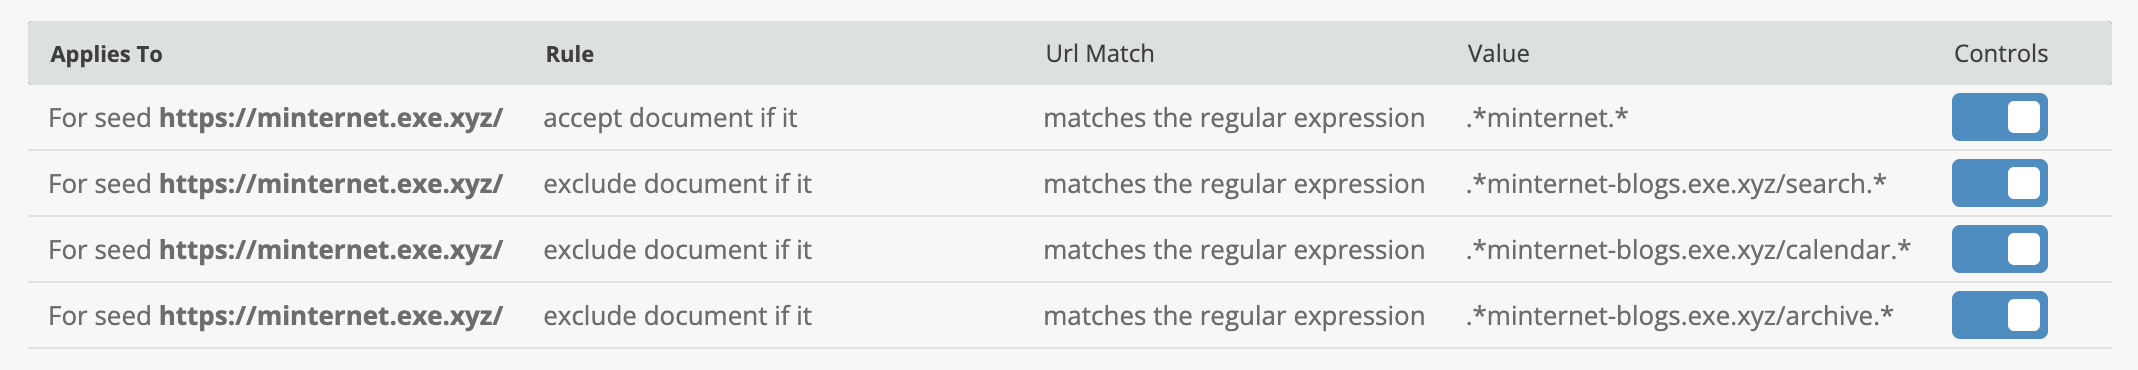
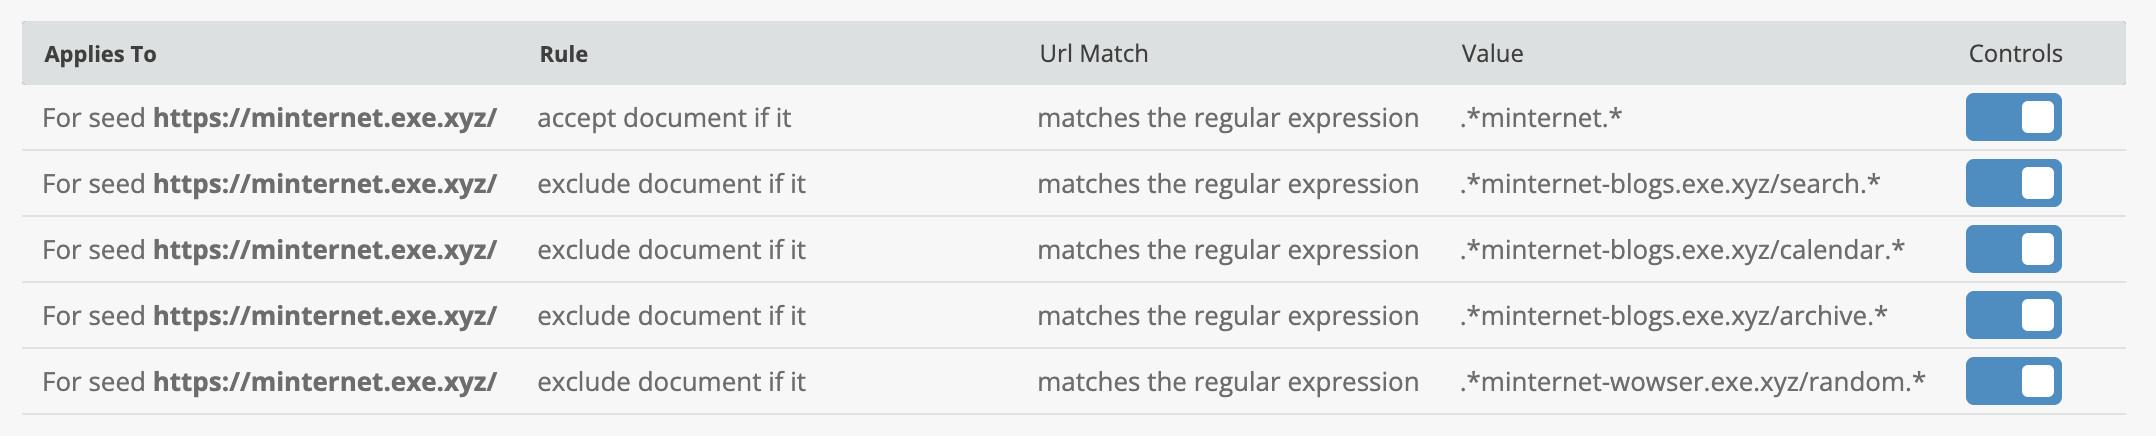
AIT lab through first real crawl starting

diff --git a/labs/archive_it/README.md b/labs/archive_it/README.md
@@ -24,7 +24,6 @@ One of the very first things we'll want to do is make the collection **private**
 
 ![mark_private.png](mark_private.png)
 
-
 ### 2- Add single seed and run first crawl
 
 Next we'll add a single seed and run a test crawl to get a feel for the mechanics of that.
@@ -122,7 +121,6 @@ For some web archiving programs, this may close the loop and be sufficient for t
 6. Discovery and access available via the AIT public interface
 
 For other web archiving programs, we are only scratching the surface of what they may utilize.  AIT is a very full featured web archiving service, much of which we have not yet touched on yet.
-
 
 ### 5- Crawl Traps, QA, and Scoping; oh my!
 
@@ -244,7 +242,7 @@ With this new rule in place, let's re-run a test crawl with all the same setting
 
 ![test-crawl-2.png](test-crawl-2.png)
 
-For analysis purposes, this crawl will work equally well to the one you ran: https://partner.archive-it.org/421/collections/30935/crawl/2656566.
+For analysis purposes, this crawl will work equally well to the one you ran: [https://partner.archive-it.org/421/collections/30935/crawl/2656566](https://partner.archive-it.org/421/collections/30935/crawl/2656566).
 
 Note that now 95 docs; it would appear that our seed scope include rule had an effect!  What kind of URLs are we seeing from this crawl?  We can use the same QA approach as before and look at the plain text URLs that originated from this seed:
 
@@ -357,12 +355,14 @@ What else are we seeing here?  QA-ing crawls can be very methodical and scientif
 - URLs with `/calendar` in it, e.g. `https://minternet-blogs.exe.xyz/calendar?year=1990&month=1`
 - URLs with `/archive` in it, e.g. `https://minternet-blogs.exe.xyz/archive/2026/1`
 - URLs with `/search` in it, e.g. `https://minternet-blogs.exe.xyz/search?q=warc`
+- URLs with `/random` in it, e.g. `https://minternet-wowser.exe.xyz/random/nafjxobz`
 
 We will explore crawler trap patterns in more detail later, but suffice to say for now these _are_ crawler traps.  Note the following websites which explain why they are traps:
 
-- https://minternet-blogs.exe.xyz/calendar
-- https://minternet-blogs.exe.xyz/search
-- https://minternet-blogs.exe.xyz/archive/2026/1
+- [https://minternet-blogs.exe.xyz/calendar](https://minternet-blogs.exe.xyz/calendar)
+- [https://minternet-blogs.exe.xyz/search](https://minternet-blogs.exe.xyz/search)
+- [https://minternet-blogs.exe.xyz/archive/2026/1](https://minternet-blogs.exe.xyz/archive/2026/1)
+- [https://minternet-wowser.exe.xyz/random](https://minternet-wowser.exe.xyz/random)
 
 Our next step will be to write some **exclude** rules that will avoid these traps!
 
@@ -379,9 +379,10 @@ Now we'll create three exclusion rules:
 2. Select "it Matches the Regular Expression"
 3. Enter the value `.*minternet-blogs.exe.xyz/search.*`
 
-Repeat this process for the following two values:
+Repeat this process for the following three values:
 - `.*minternet-blogs.exe.xyz/calendar.*`
 - `.*minternet-blogs.exe.xyz/archive.*`
+- `.*minternet-wowser.exe.xyz/random.*`
 
 When you're done, it should look like the following:
 
@@ -389,7 +390,40 @@ When you're done, it should look like the following:
 
 Finally, let's run another test crawl and see the effect of this.  Follow the steps we've done before, but this time let's bump our document limit to 2000 and give us some breathing room for URLs and the various assets we may encounter.
 
-For analysis purposes, you may use this crawl which follows this pattern is now complete: https://partner.archive-it.org/421/collections/30935/crawl/2656573.
+For analysis purposes, you may use this crawl which follows this pattern is now complete: [https://partner.archive-it.org/421/collections/30935/crawl/2656574](https://partner.archive-it.org/421/collections/30935/crawl/2656574).
+
+Once the crawl is complete, it should finish with 77 documents:
+
+![test-crawl-3.png](test-crawl-3.png)
+
+🚨**NOTE!** 🚨
+
+While putting together this section, I originally missed the exclusion pattern `.*minternet-wowser.exe.xyz/random.*` which resulted in encountering another crawler trap.  This was discovered after running a test crawl and noticing repeating URLs with `/random` in the URL.  This was not obvious from our first test crawl.  Though a couple of URLs had `/random` in them, e.g. `https://minternet-wowser.exe.xyz/random/jehdtsin`, it was not enough for an ad-hoc spot check to catch.  This is both a nice example of a) how scale can effect crawling and QA, and b) how iterative the process is! 
+
+### 6- A real crawl and replay of content
+
+Now that we've honed our seed, let's perform a full, real crawl.  Once that crawl is complete, we'll be able to view the results in the public facing interface of our collection.
+
+1. Navigate to the collection
+2. Navigate to "Seeds"
+3. Select the seed we've been working on, `https://minternet.exe.xyz/`
+4. Click "Run Crawl" and set the following:
+
+- Crawl Type: `One-Time Crawl`
+- Doc. Limit: `1000`  (just to be safe)
+
+It should look like the following:
+
+![real-crawl-1.png](real-crawl-1.png)
+
+Either wait for this crawl to complete, or view the results of the crawl here: [https://partner.archive-it.org/421/collections/30935/crawl/2656578](https://partner.archive-it.org/421/collections/30935/crawl/2656578).
+
+With the crawl complete, we can look at the public access interface.  Please note that we've configured this collection as "Private", so this interface is only visible to logged in users for this AIT account.
+
+1. Navigate to collection
+2. Click the [public/private interface link](https://archive-it.org/collections/5a001858-378f4c6499d4b1458bbef891):
+
+![collection-private-link.png](collection-private-link.png)
 
 
 
